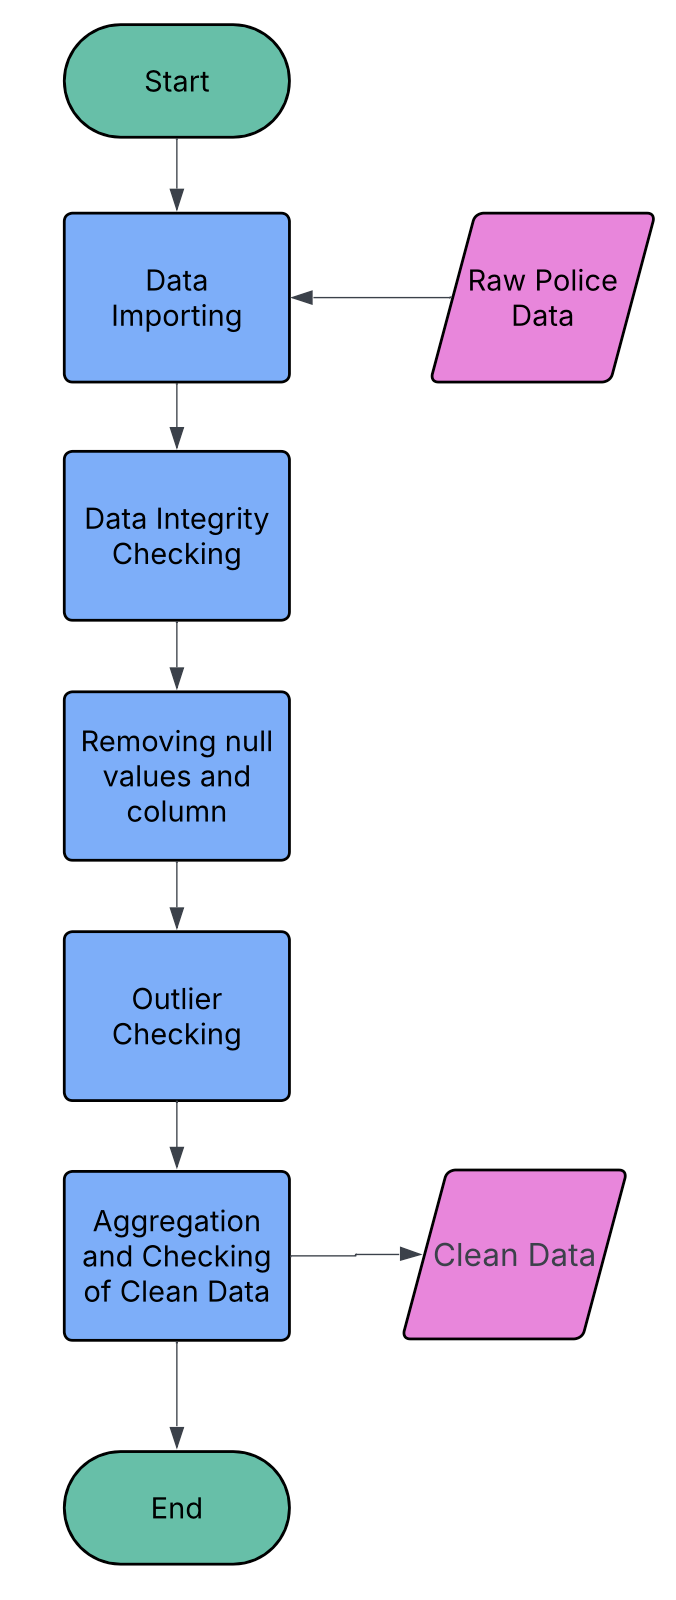
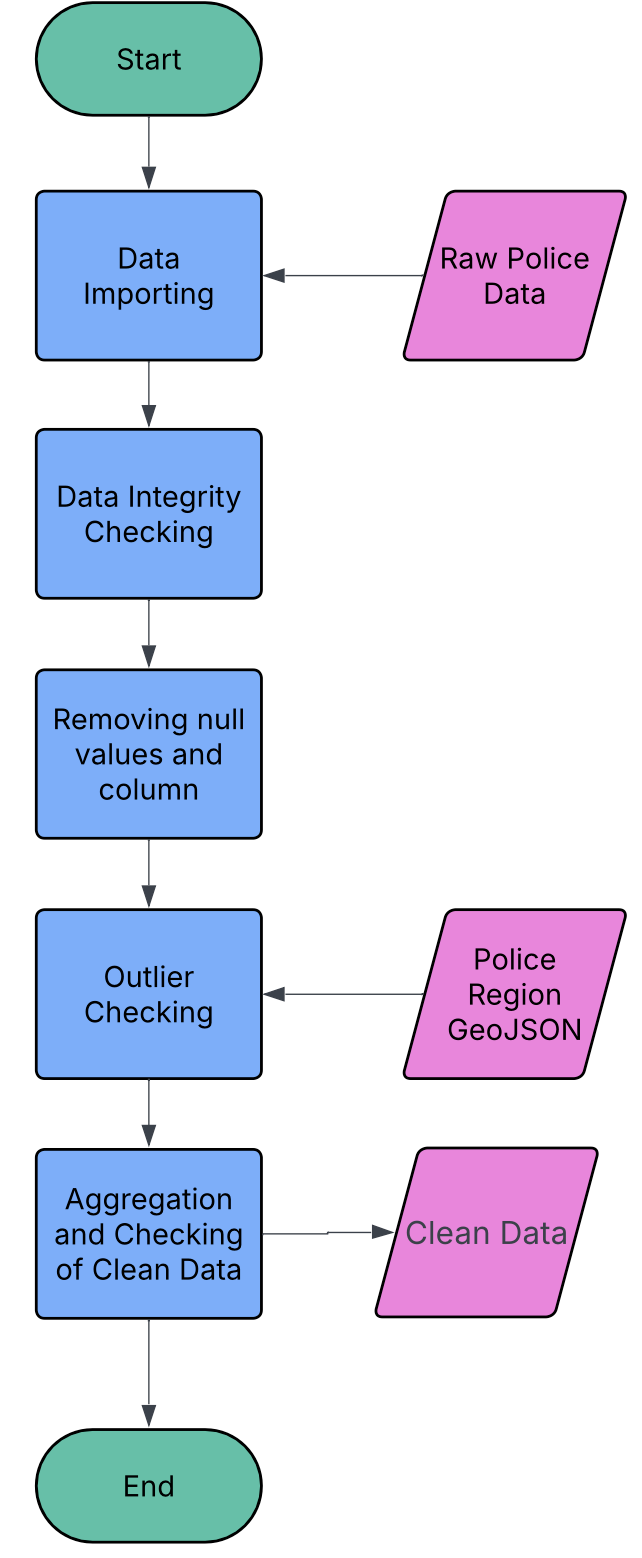
Edit flowchart

diff --git a/README.md b/README.md
@@ -72,7 +72,7 @@ statsmodels
 
 2. Install the required libraries 
 
-3. Download required files from [UK Police Data](https://data.police.uk/data/). Select dat range from 2024-01 to 2026-01 and Forces of "Thames Valley Police", "Warwickshire Police", "West Midlands Police", and "West Yorkshire Police"
+3. Download required files from [UK Police Data](https://data.police.uk/data/). Select date range from 2024-01 to 2026-01 and Forces of "Thames Valley Police", "Warwickshire Police", "West Midlands Police", and "West Yorkshire Police"
 
 #
 ## Running scripts
